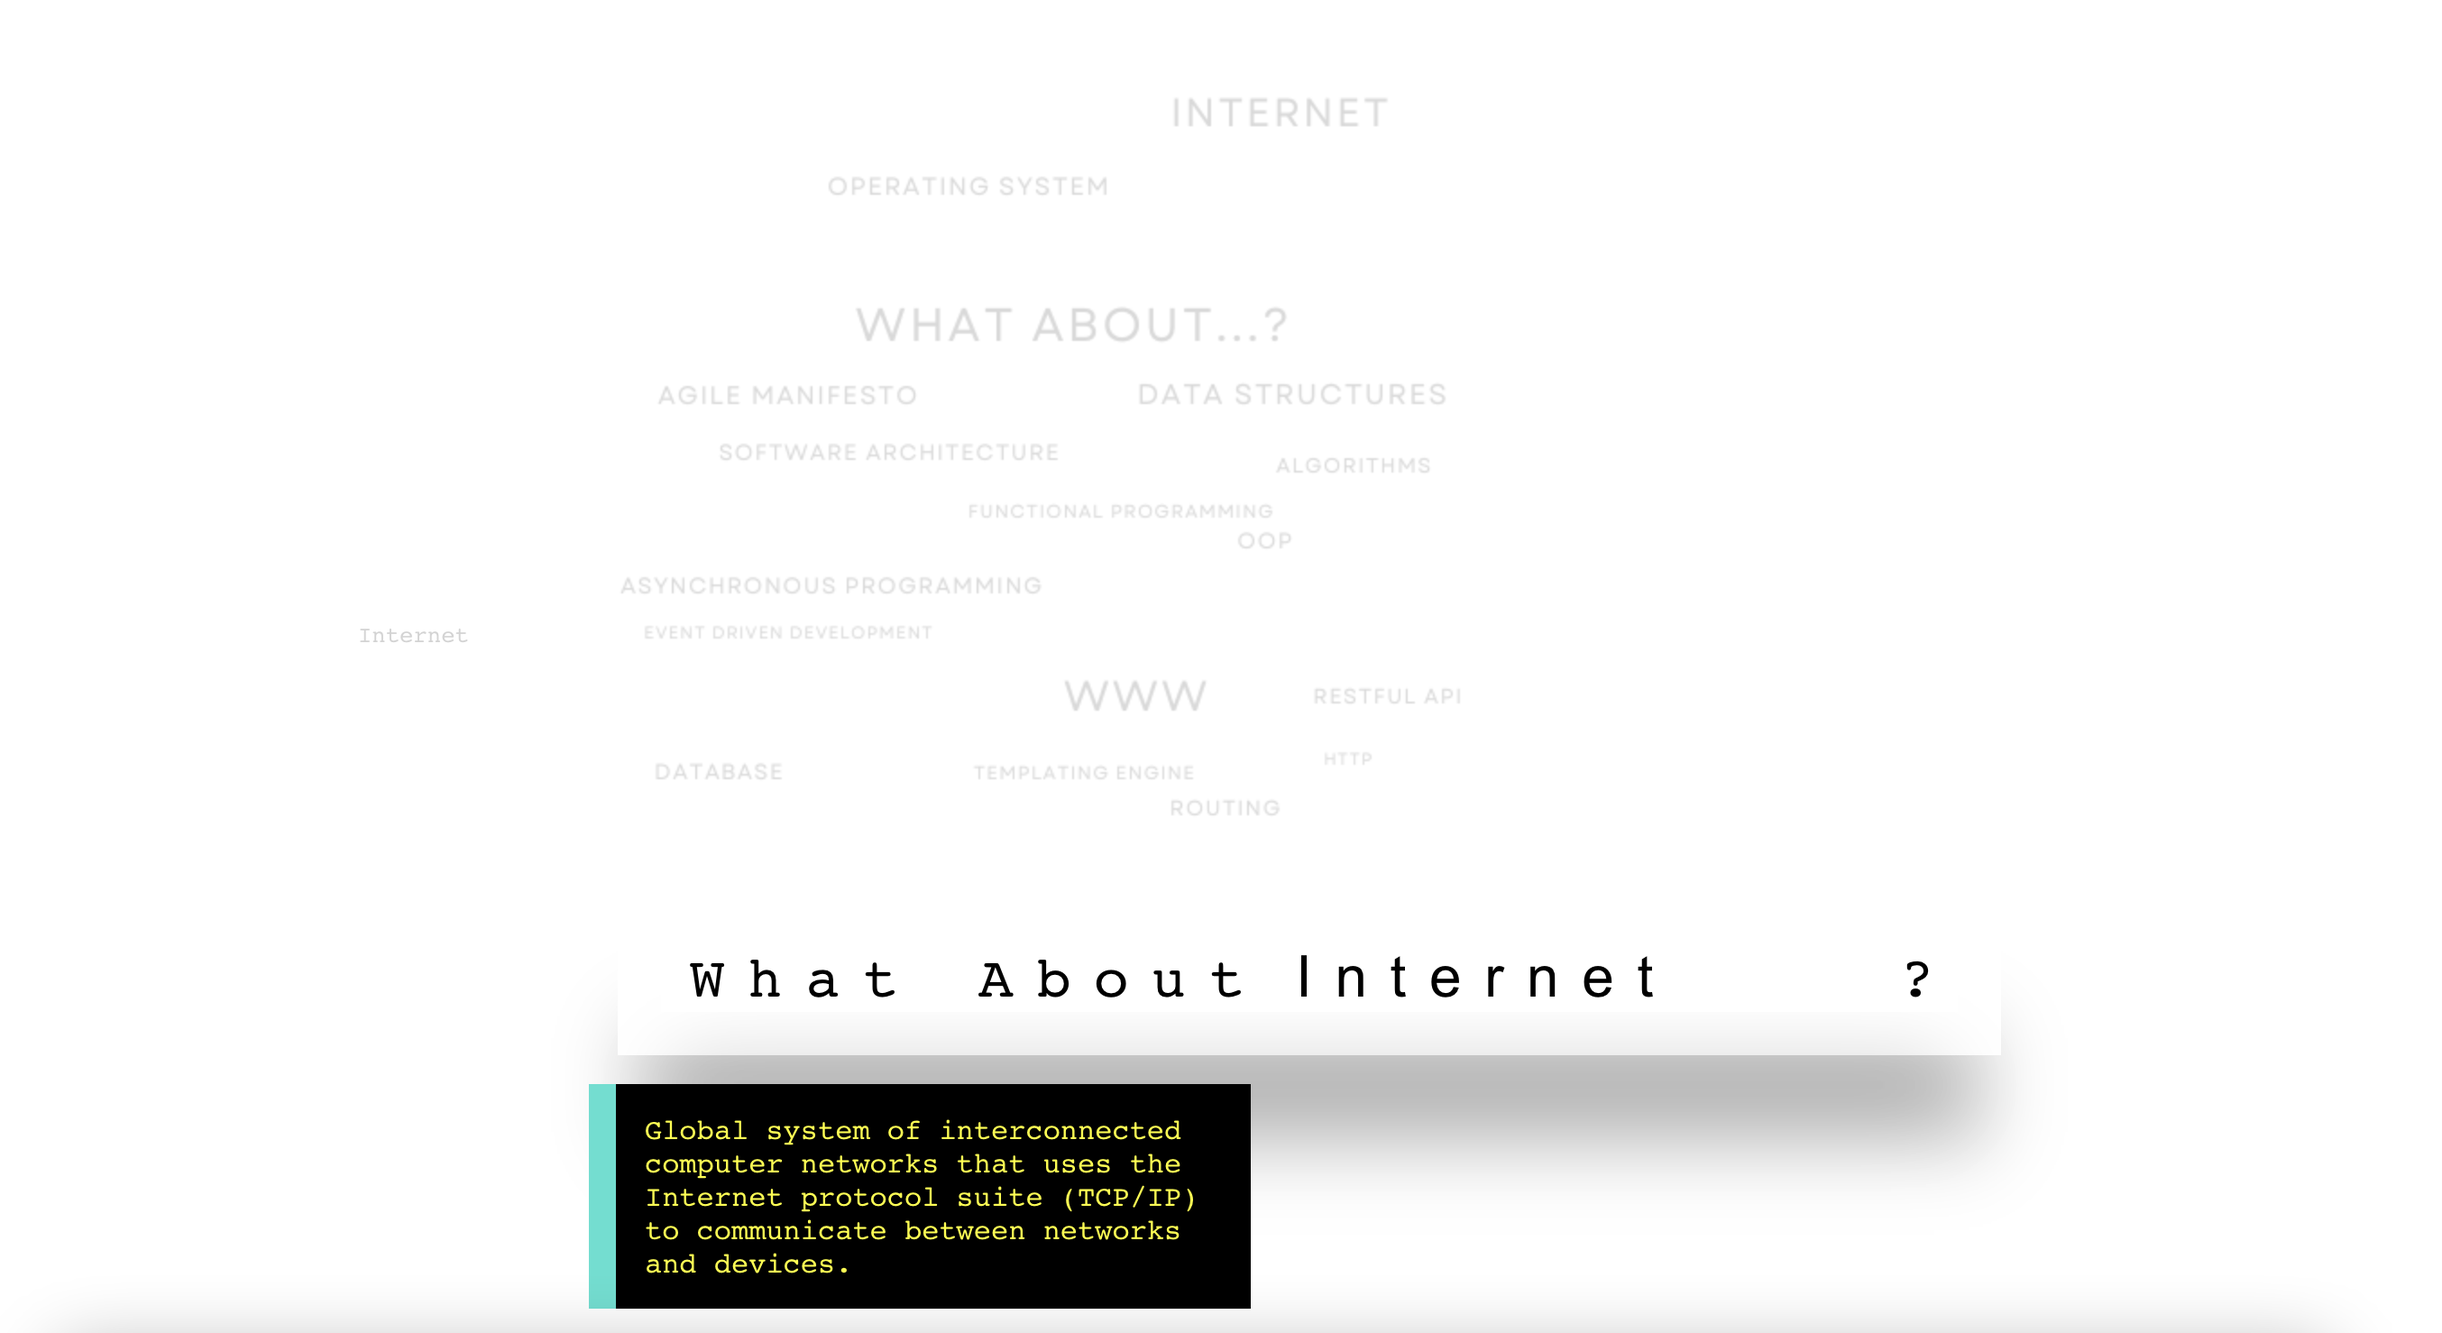
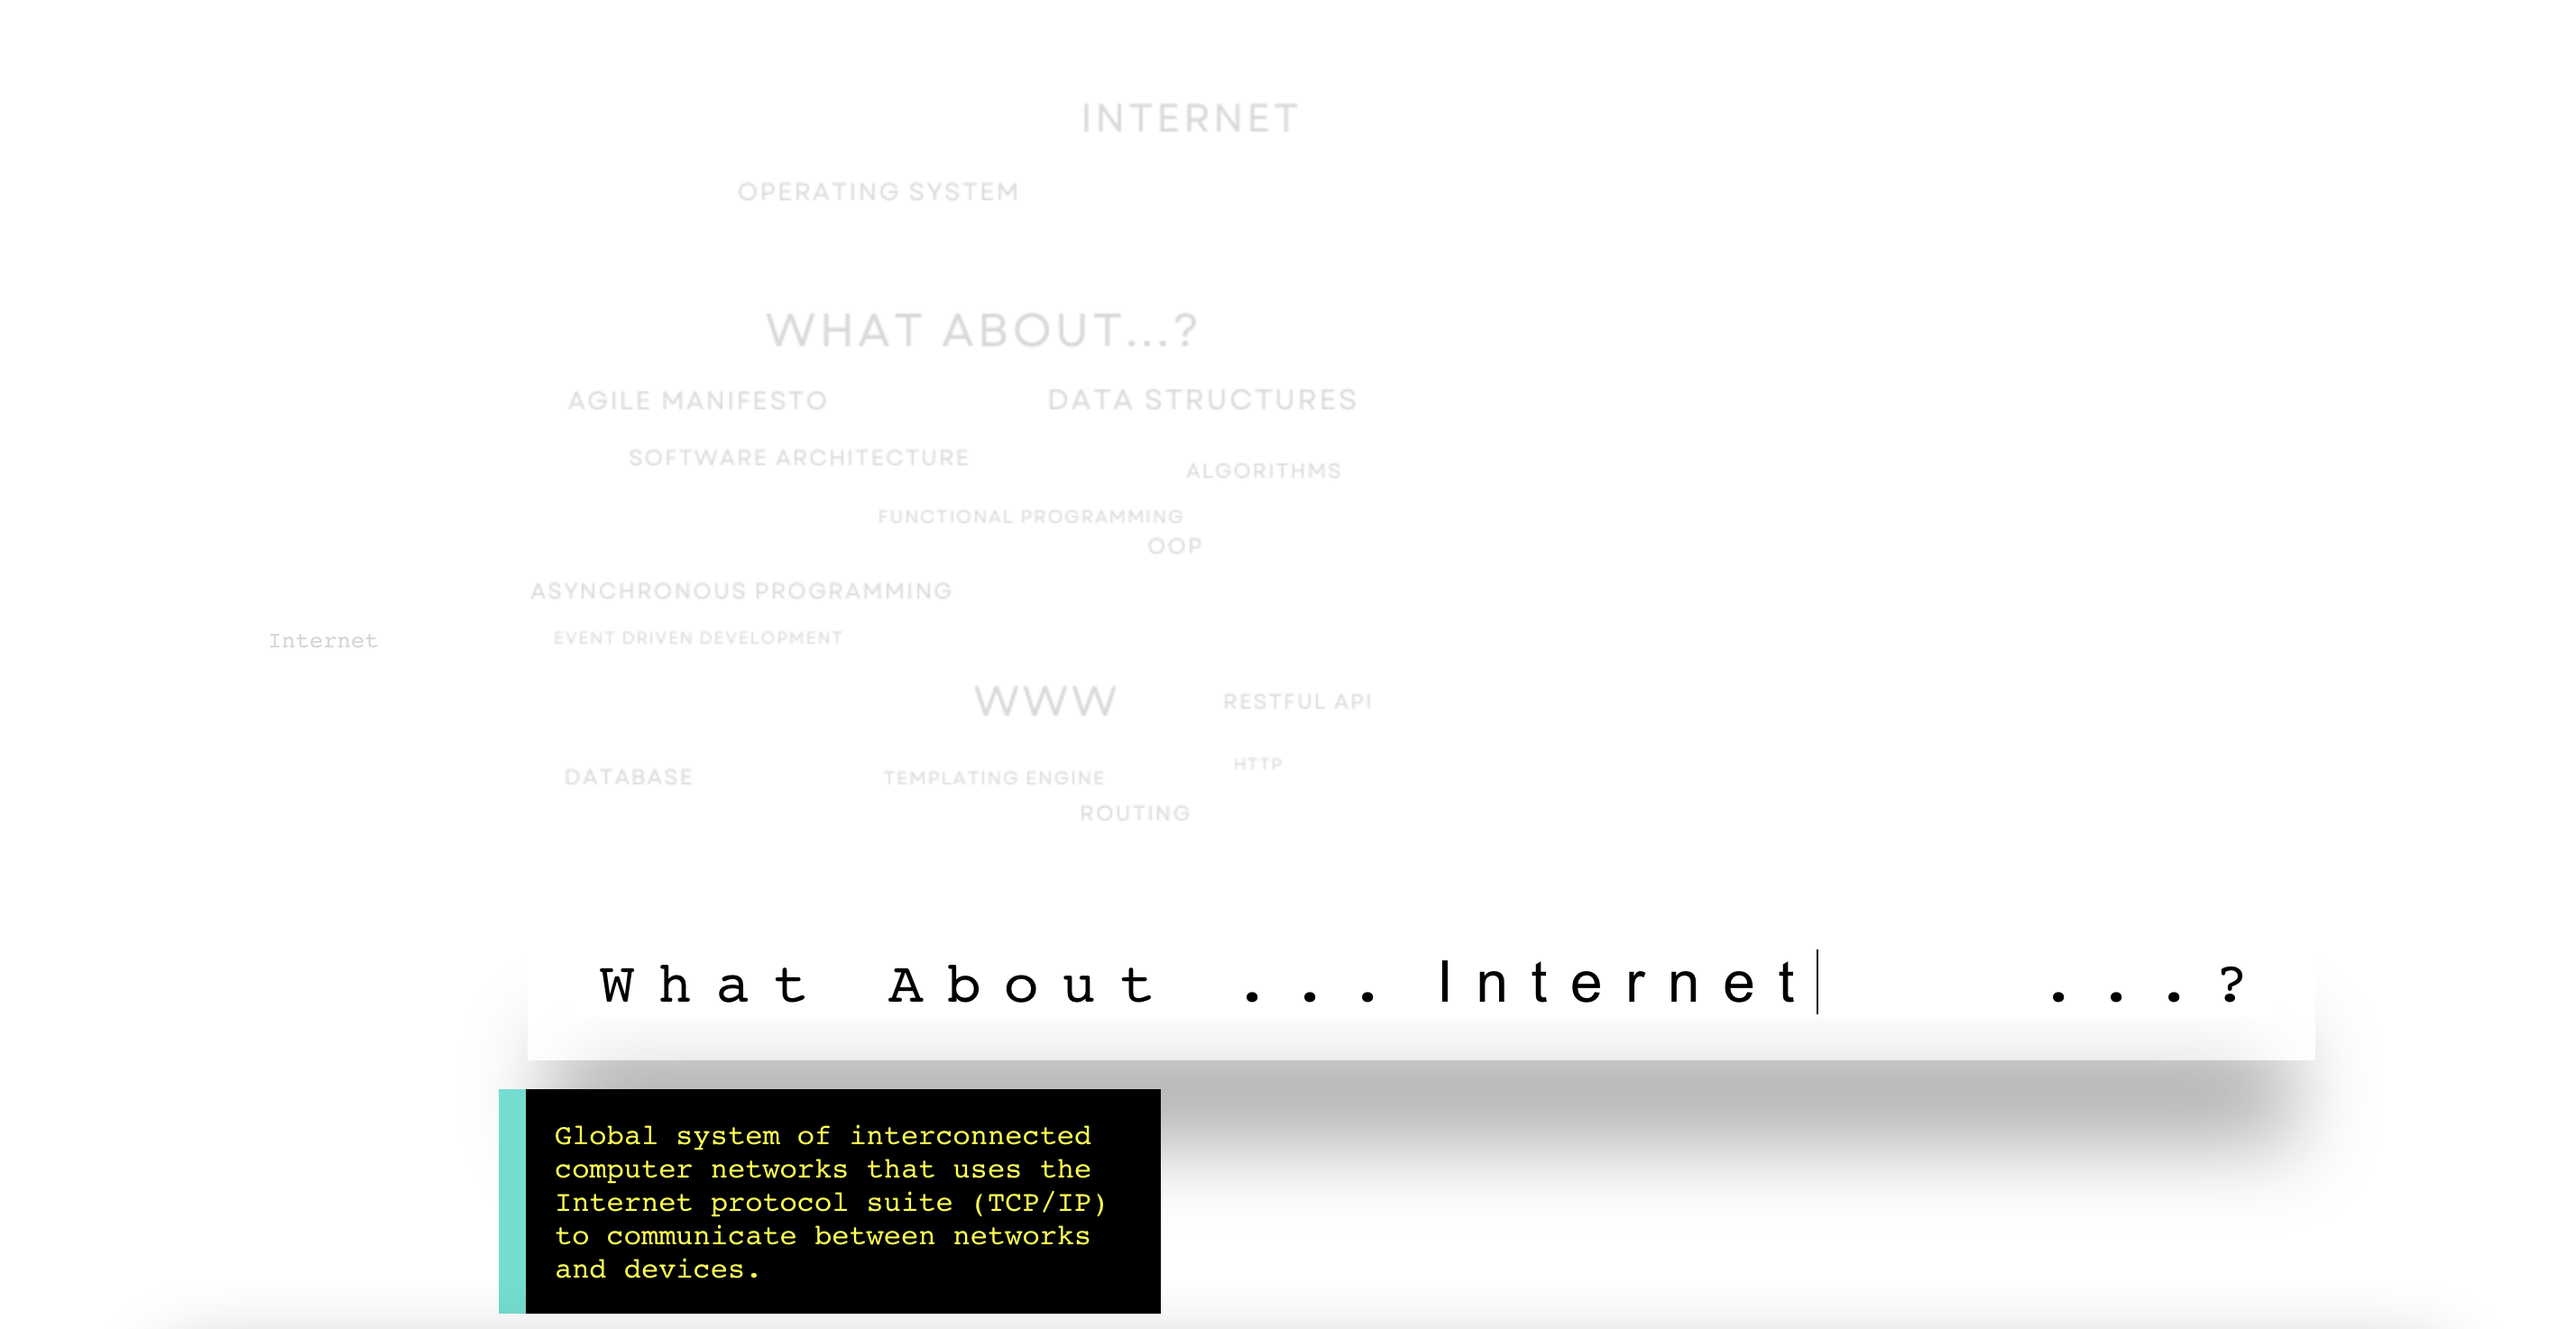
update

diff --git a/client/src/MOCK_DATA.js b/client/src/MOCK_DATA.js
@@ -1,0 +1,142 @@
+export const Data = [
+  {
+    "question": "Internet",
+    "answer": [" Global system of interconnected computer networks that uses the Internet protocol suite (TCP/IP) to communicate between networks and devices."],
+    "path": ""
+  },
+  {
+    "question": "WWW",
+    "answer": [" Information system enabling information to be shared over the Internet."],
+    "path": ""
+  },
+  {
+    "question": "JavaScript",
+    "answer": [" Programming language that is one of the core technologies of the World Wide Web."],
+    "path": ""
+  },
+  {
+    "question": "Values",
+    "answer": [" Values represent task we want to accomplish.", "Values have an behavior associated with them."],
+    "path": require("./images/values.png"),  
+  },
+  {
+    "question": "Operations",
+    "answer": [" Operation is what we do with our values."],
+    "path": require("./images/operations.png"),
+  },
+  {
+    "question": "Types",
+    "answer": [" Type is referring with kind of the value."],
+    "path": require("./images/types.png")
+  },
+  {
+    "question": "Variables",
+    "answer": [" Variable is a representation in some place in memory where we store data."],
+    "path": require("./images/types.png")
+  },
+  {
+    "question": "Expressions",
+    "answer": [" Expression is part of entire thing."],
+    "path": require("./images/expressions.png")
+  },
+  {
+    "question": "Statements",
+    "answer": [" Statement is an entire thing finish with semicolon."],
+    "path": require("./images/statements.png")
+  },
+  {
+    "question": "Conditions",
+    "answer": [" Conditions refer to decision making. if statement is the primary way to make a decision."],
+    "path": ""
+  },
+  {
+    "question": "Loops",
+    "answer": [" Loops comes when have set of operation to do multiple times."],
+    "path": ""
+  },
+  {
+    "question": "Functions",
+    "answer": [" Function is a collection of statements which we want to do multiple time in multiple places."],
+    "path": ""
+  },
+  {
+    "question": "Primitive data",
+    "answer": [" Primitive types: ..."],
+    "path": ""
+  },
+  {
+    "question": "NaN",
+    "answer": [" NaN: ..." ],
+    "path": ""
+  },
+  {
+    "question": "new",
+    "answer": [" new: ..."],
+    "path": ""
+  },
+  {
+    "question": "Coersion",
+    "answer": [" Coersion: ..."],
+    "path": ""
+  },
+  {
+    "question": "Booleans",
+    "answer": [" Booleans: ..."],
+    "path": ""
+  },
+  {
+    "question": "Equality",
+    "answer": [" Equality: ..."],
+    "path": ""
+  },
+  {
+    "question": "Scope",
+    "answer": [" Scope: ..."],
+    "path": ""
+  },
+  {
+    "question": "Undefined",
+    "answer": [" Undefined: ..."],
+    "path": ""
+  },
+  {
+    "question": "Undeclared",
+    "answer": [" Undeclared: ..."],
+    "path": ""
+  },
+  {
+    "question": "Function Expressions",
+    "answer": [" Function Expressions: ..."],
+    "path": ""
+  },
+  {
+    "question": "IIFE",
+    "answer": [" IIFE: ..."],
+    "path": ""
+  },
+  {
+    "question": "Block Scoping",
+    "answer": [" Block Scoping: ..."],
+    "path": ""
+  },
+  {
+    "question": "Closure",
+    "answer": [" Closure: ..."],
+    "path": ""
+  },
+  {
+    "question": "this",
+    "answer": [" this: ..."],
+    "path": ""
+  },
+  // {
+  //   "question": "Prototypes",
+  //   "answer": [" Prototypes: ..."],
+  //   "path": ""
+  // },
+  {
+    "question": "Class",
+    "answer": [" Class: ..."],
+    "path": ""
+  }
+]

diff --git a/client/src/App.js b/client/src/App.js
@@ -1,60 +1,63 @@
 import './App.css';
-import JSONDATA from "./MOCK_DATA.json";
+import {Data} from "./MOCK_DATA";
 import {useState} from "react";
-let Img = require('./img/wa_home.png');
+let Img = require('./images/wa_home.png');
 
 function App() {
-  const [ searchTerm, setSearchTerm] = useState("");
   let a = "";
- 
+  let b = "";
+  const [ searchTerm, setSearchTerm] = useState("");
+  const [ show, setShow] = useState("");
+
   return (
-    
-  
     <div className='App'>
       {/* list terms */}
       <div className='search_term'>
-          {JSONDATA
+        {/* <p>What about...</p> */}
+        <p>What about...</p>
+          {Data
             .filter((val) => {
               if(searchTerm === ""){
               
                 return val
               }else if(val.question.toLowerCase().includes(searchTerm.toLowerCase())){
                 a = val.answer;
+                b = val.path;
+
                 return val;
               }
             })
             .map((val,key) => {
               
-            return <div className="user" key="key">{val.question}</div> 
+            return <div className="user" key="key"> {val.question}</div> 
           })} 
 
           </div>
-    
-
           <div>
-
-
         {/* home img */}
-        <div className="home_img"><img src={Img} alt="home-img"/></div>
+         <div className="home_img"><img src={Img} alt="home-img"/></div>
           {/* search sections */}
-        <div className="content">
+         <div className="content">
   
           <div className='search shadow'>
-                  <p className="shadow inputText">What About ...<input className='inputText' type="text" placeholder="" onChange={ event => {setSearchTerm(event.target.value)}}></input>...?</p>
+                  <p className="shadow inputText">What About<input className='inputText' type="text" placeholder="....." onChange={ event => {setSearchTerm(event.target.value)}}></input>?</p>
                 </div>
-
-                <div className="definition">{a}</div>
-
-          </div>
-
-          </div>
-
-         
+                <hr />
+                <div className="definition">
+                  <p>{a[0]}</p>
+                  <p>{a[1]}</p>
+                
+                </div>
            
+                <button onClick={() => setShow(!show)}>info</button>
+                <div>
+                { show ?  <img src={b} alt="val"/>  : null }
+                </div>
+              
+          </div>
+
+          </div>       
      </div>
-
-
-
  
   );
 }

diff --git a/client/src/App.css b/client/src/App.css
@@ -39,12 +39,17 @@ p {
 }
 .definition { 
   border-left: 15px solid turquoise;
-  width: 20rem;
+  width: 80%;
   padding: 1rem;
   color: yellow;
   background-color: black;
 }
-input {border:0;outline:0;}
+input {
+  border:0;
+  outline:0;
+  background-color: black;
+  color: white;
+}
 input:focus {outline:none!important;}
 
 .inputText {

diff --git a/README.md b/README.md
@@ -22,6 +22,11 @@
 
 ## Features
 - Search Bar
+- Basic programming concepts (js).
+- Type and Coersion (js).
+- Scope/Closure (js).
+- Prototypes (js).
+
 
 
 ## Screenshots
